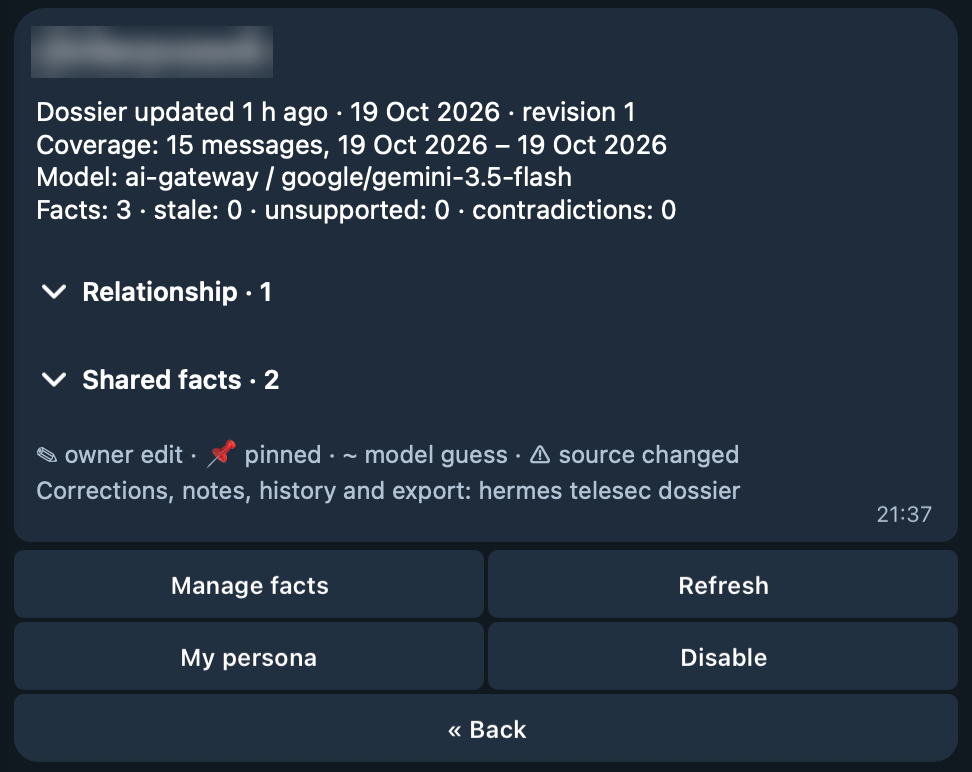
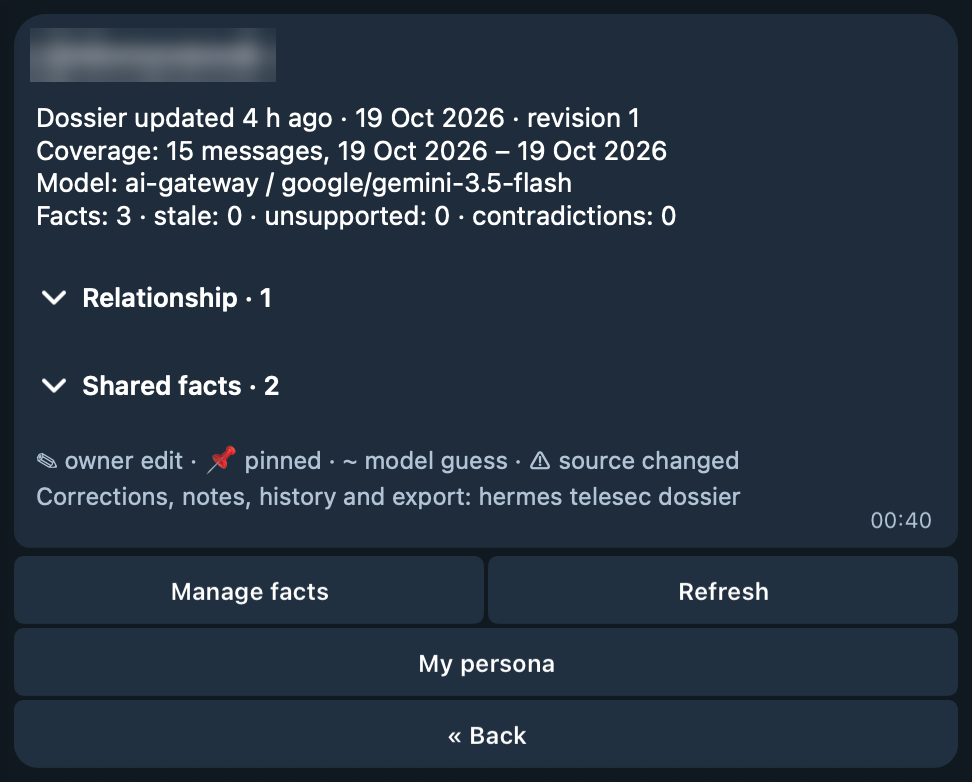
docs: real Telegram screenshots of Settings and the 0.12 owner panel
Add a Settings screenshot to the README, and retake the owner panel and
the Dossier overview on 0.12.1, so they show the per-chat history and
dossier rows, the Settings button, and no Disable button. The contact's
name, username, and chat ID are blurred.

Record the 0.12.0 and 0.12.1 release, the dependency incident, and the
live smoke in docs/VERIFY.md.

diff --git a/docs/VERIFY.md b/docs/VERIFY.md
@@ -14,6 +14,20 @@ History checks must cover one-time opt-in, private-chat defaults, explicit scope
 
 Native-handler checks must demonstrate that every Business message/edit/deletion update is consumed after history capture, including owner/contact text, disabled history/transcription, failed history writes, and rejected media. Real PTB updates must also prove that `TELESEC_AGENT_ENABLE=1` permits unhandled updates through, ordinary bot messages continue normally, and text history observation does not spend an LLM call. The transcript surfaces must retain the intended `business_connection_id`, complete text, and UTF-16 entity positions.
 
+## 0.12.0 and 0.12.1 release and live smoke: 2026-10-19
+
+Before tagging, `hermes plugins validate --install-deps` on a clean Hermes v0.22.2 passed for 0.12.0. CI ran 1026 tests on Python 3.11–3.14.
+
+The production gateway (Hermes 0.21.6) was updated plugin-only.
+
+- **0.12.0 and migration.** The plugin checkout was fast-forwarded to `v0.12.0`, and the gateway restarted at 20:26 UTC. The one-time migration stored history as on (`via migration`) from the old environment variable and logged a warning. Transcription stayed on by default, and the 0.11.0 dossier switch stayed on.
+- **Incident.** About one minute later, a scheduled Hermes maintenance run rebuilt the plugin dependency environment and could not resolve it: the 0.12.0 dev dependency group asked for a newer ruamel.yaml than Hermes 0.21.6 pins. Hermes then disabled Telesec in the config. The running gateway kept working, but the next restart would not have loaded the plugin. `hermes plugins validate` had printed ok; the resolver error was only in stderr.
+- **0.12.1 fix.** [0.12.1 (#66)](https://github.com/neoromantic/telesec/pull/66) makes the dev group name packages only, without versions. After a fast-forward to `v0.12.1`, `hermes plugins enable telesec` resolved the dependency environment. The gateway restarted at 20:35 UTC, wired the `telesec` handlers, started the dossier worker, and connected to Telegram. `hermes telesec settings` showed transcription on (default), history on (via migration), and dossiers on (via migration).
+- **Live smoke** from the owner's account in the bot DM. `/telesec` opened Settings with the three rows, all on. `/start bizChat<chat_id>` opened the panel with the transcription row, Reset, and the new Save history / Don't save and Keep dossier / No dossier rows. Don't save answered "History: off for this chat", stored one entry, and hid the dossier row behind "Dossier: needs history". Save history answered "History: on for this chat" and removed the entry. ⚙ Settings opened Settings with « Back. No new message appeared in the Business chat, and the four bot-DM fixtures were deleted. The gateway logged no rich-edit fallback and no Telesec error.
+- **Screenshots.** `settings.png`, `owner-panel.png`, and `dossier-panel.png` were retaken on 0.12.1 right after the smoke, with no switch or mode changed ([Documentation images](#documentation-images)).
+
+No message text, contact names, or raw contact IDs are included here.
+
 ## 0.11.0 release and live smoke: 2026-10-19
 
 Before tagging, `hermes plugins validate --install-deps --json` on an isolated Hermes v0.22.2 (`d923a5eb487a17c0a68801bba9ef0f56c81040a8`) passed: exit 0, `ok: true`, all 14 checks, security scan `safe`. The only warning is the known private STT import. CI passed on Python 3.11–3.14.
@@ -159,7 +173,9 @@ Keep evidence free of real contact details and message content. Record Hermes/PT
 
 `voice-transcript.png` and `stats-panel.png` are real Telegram for macOS screenshots from the production gateway on 2026-10-19 (code identical to 0.10.0). The voice note was a synthetic 10-second English recording sent by the owner in a controlled Business chat. Its transcript was added to the caption about 4 seconds later. The Stats view was opened from the owner's private chat with the bot. Contact names, usernames, and chat IDs are blurred. Afterwards the chat's mode was set back to `off`, and the test voice and panel messages were deleted. `banner.png` (1200x600) is rendered from `docs/images/src/banner.html` and uses the voice screenshot.
 
-`owner-panel.png`, `dossier-panel.png`, and `dossier-fact.png` are real Telegram for macOS screenshots from the production gateway on 2026-10-19 running 0.11.0. The panel, its Dossier overview, and one fact card were opened from the owner's private chat with the bot for a controlled Business chat whose dossier was built from real messages. The contact's name, username, chat and message IDs, the fact text, and the source quote are blurred; headings, counts, and buttons are not. `/dossier` was not sent in the Business chat, and the panel messages were deleted afterwards.
+`settings.png`, `owner-panel.png`, and `dossier-panel.png` are real Telegram for macOS screenshots from the production gateway on 2026-10-19 running 0.12.1. Settings was opened with `/telesec`, and the panel with `/start bizChat<chat_id>` for a controlled Business chat, both from the owner's private chat with the bot; the Dossier overview was opened from the panel's Dossier button. Settings shows all three switches on. The contact's name, username, and chat ID are blurred; the overview's fact sections are collapsed, so no fact text is visible. Headings, counts, and buttons are not blurred. No switch, mode, or per-chat row was tapped, nothing was sent in the Business chat, and the commands and panel messages were deleted afterwards.
+
+`dossier-fact.png` is a real Telegram for macOS screenshot from the production gateway on 2026-10-19 running 0.11.0, a fact card opened from the same chat's Dossier overview. The contact's username, the fact text, the message ID, and the source quote are blurred; headings and buttons are not. `/dossier` was not sent in the Business chat, and the panel messages were deleted afterwards.
 
 The transcript illustration depicts implemented delivery shapes. The history image contains actual CLI output captured from synthetic Business updates. The assistant illustration is explicitly a future-design concept. All use fictional content and have editable HTML sources in `docs/images/src/`.
 

diff --git a/README.md b/README.md
@@ -36,6 +36,8 @@ One chat: Manage Bot in that chat.
 [Keep dossiers] [• No dossiers]
 ```
 
+![Real Telegram screenshot of Settings in the owner's private chat with the bot: "Telesec settings · all chats" with the Transcribe / Don't transcribe, Save history / Don't save, and Keep dossiers / No dossiers rows, all three switched on.](docs/images/settings.png)
+
 Or from the terminal:
 
 ```bash
@@ -87,7 +89,7 @@ Transcription: off
 [⚙ Settings] [Refresh]
 ```
 
-![Real Telegram screenshot of the owner panel in the owner's private chat with the bot: Transcription: off, with mode buttons, Reset to default, Stats, Dossier, and Refresh. The contact's name, username, and chat ID are blurred.](docs/images/owner-panel.png)
+![Real Telegram screenshot of the owner panel in the owner's private chat with the bot: Transcription: off, with mode buttons, Reset to default, the Save history / Don't save and Keep dossier / No dossier rows (both on), Stats, Dossier, ⚙ Settings, and Refresh. The contact's name, username, and chat ID are blurred.](docs/images/owner-panel.png)
 
 Tap a mode to set it, or Reset to return to the default; the panel message updates in place. The history and dossier rows below it work the same way for this chat ([per-chat history and dossier](#per-chat-history-and-dossier)). The header always ends with `chat <id>`, so when you reply to a panel message to ask the agent about that chat, the reply names the chat. The panel speaks Russian when your Telegram app is set to Russian (`Панель владельца`, `Расшифровка: выкл`, mode buttons `все`, `мои`, `собеседника`, `выкл`) and English otherwise; modes are still stored as `both`, `own`, `peer`, and `off`. Only you see the panel: it lives in your private chat with the bot and the contact sees nothing. Only a verified owner gets the panel. Anyone else's `/start bizChat…` is treated as an ordinary message, and a panel button pressed by anyone else gets a short "Not allowed" alert.
 
@@ -205,7 +207,7 @@ hermes telesec dossier correct --contact @alice --fact f3 --text "Prefers calls 
 
 In Telegram, the panel's **Dossier** section shows the chat's dossier as a rich message in your app's language (Russian or English), with pin, unpin, remove, and refresh buttons; the persona is there too, and the on/off switch is in Settings. Sending exactly `/dossier` in a private Business chat, as the owner, deletes the command and posts that contact's dossier into the chat (Telegram allows this only if the contact wrote in the last 24 hours), without owner notes and without quotes or current text of deleted or edited messages (fact texts can still reflect such a message; see [docs/DOSSIERS.md](docs/DOSSIERS.md#dossier-in-a-chat)). Unlike the owner panel, `/dossier` is deliberately visible to the contact: its purpose is to show them their dossier. When there is nothing to post, the bot tells you why in your private chat with it instead.
 
-![Real Telegram screenshot of the Dossier overview in the owner panel: when the dossier was updated, coverage, model, fact counts, the Relationship and Shared facts sections, the mark legend, and Manage facts, Refresh, My persona, and Back buttons. The contact's username is blurred.](docs/images/dossier-panel.png)
+![Real Telegram screenshot of the Dossier overview in the owner panel: when the dossier was updated, coverage, model, fact counts, the collapsed Relationship and Shared facts sections, the mark legend, and Manage facts, Refresh, My persona, and Back buttons, with no on/off switch. The contact's username is blurred.](docs/images/dossier-panel.png)
 
 ![Real Telegram screenshot of a fact card in the owner panel: the fact's section and kind, revisions, and its source message with date, sender, and quote, with Pin, Remove, Facts, and Back buttons. The contact's username, the fact text, the message ID, and the quote are blurred.](docs/images/dossier-fact.png)
 
